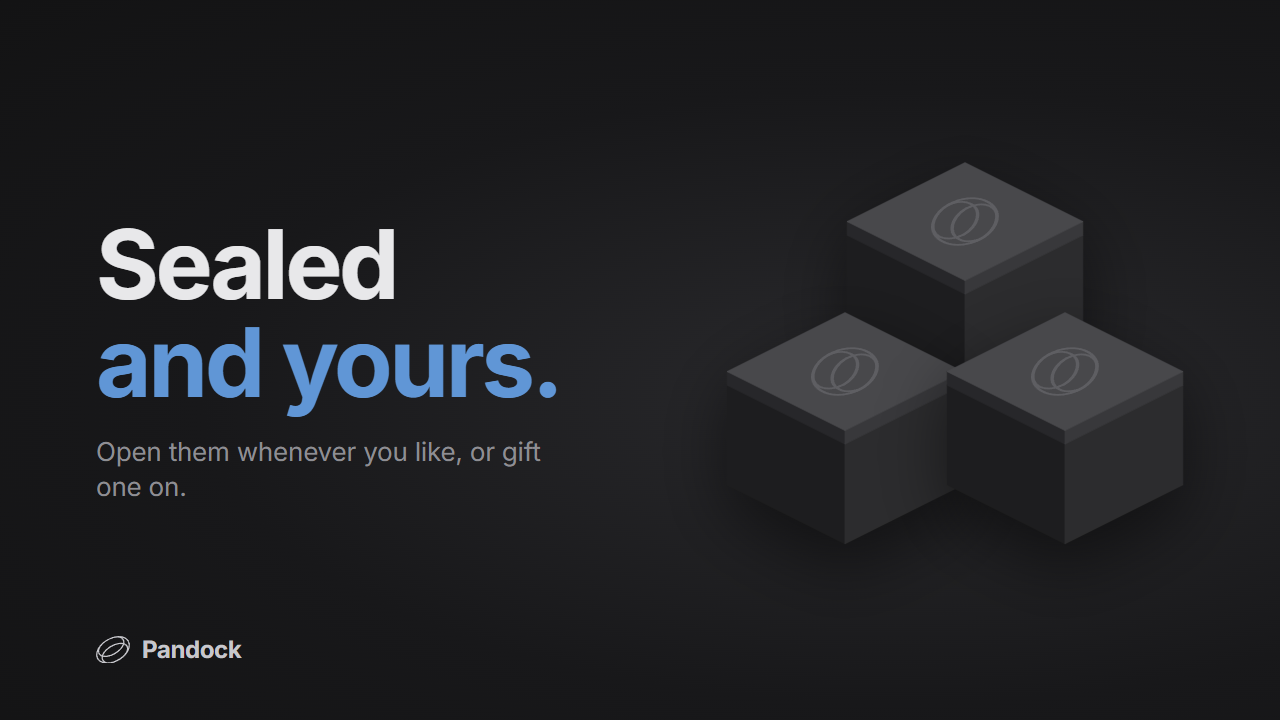
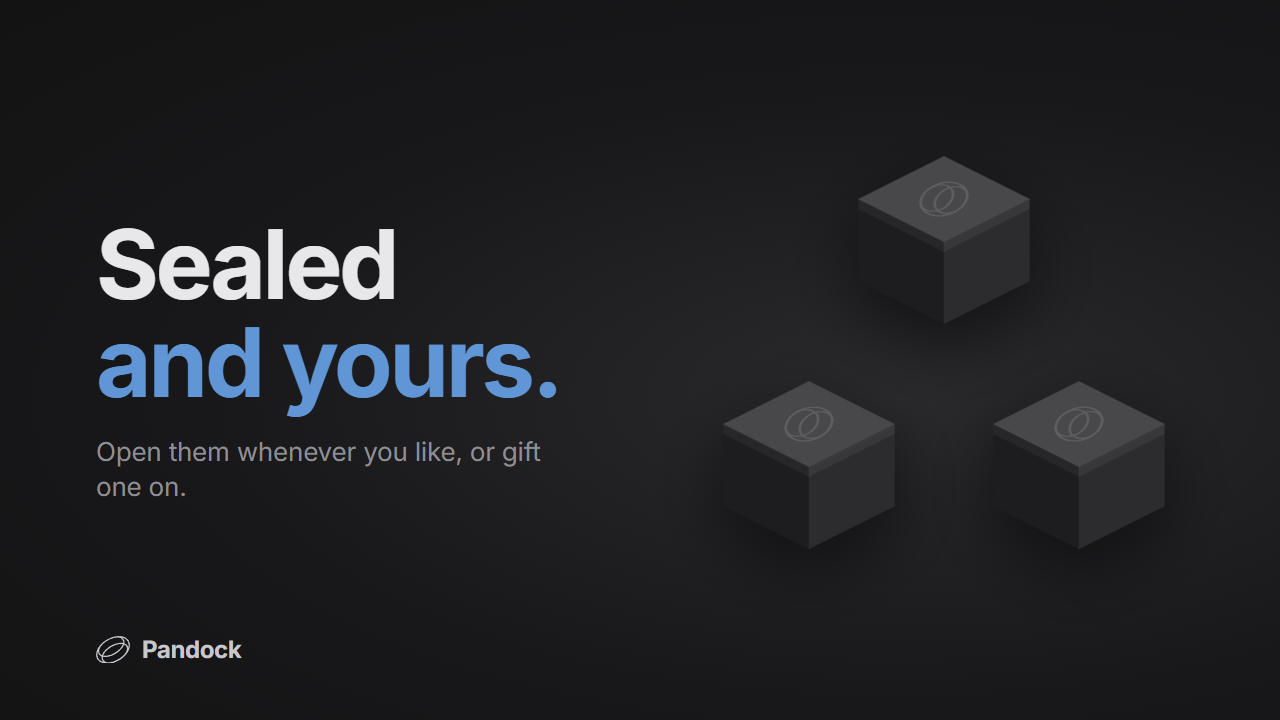
fix(brand): give the boxes on the purchase card room

Changed region(s): [[0.5625, 0.4278, 0.9375, 0.6722], [0.6562, 0.2444, 0.8438, 0.3972], [0.7188, 0.2139, 0.7812, 0.2444]]

diff --git a/brand/source/tg.html b/brand/source/tg.html
@@ -30,12 +30,13 @@
     const CARDS = {
       linked: { title: 'Linked.<span>Ready to gift.</span>', lead: 'Send boxes from any chat with /gift.', boxes: [[0, 30, 420]] },
       gift: { title: 'A box<span>for you.</span>', lead: 'Sealed. Open it to see which stock is inside.', boxes: [[0, 30, 420]] },
-      bought: { title: 'Sealed<span>and yours.</span>', lead: 'Open them whenever you like, or gift one on.', boxes: [[70, 0, 290], [-50, 150, 290], [170, 150, 290]] }, // back one first, so the front two overlap it
+      bought: { title: 'Sealed<span>and yours.</span>', lead: 'Open them whenever you like, or gift one on.', boxes: [[135, 0, 210], [0, 225, 210], [270, 225, 210]], wide: true }, // a small pyramid with air between the boxes
     }
     const c = CARDS[new URLSearchParams(location.search).get('kind')] ?? CARDS.linked
     document.getElementById('title').innerHTML = c.title
     document.getElementById('lead').textContent = c.lead
     document.getElementById('brand').innerHTML = markSVG('#c7c7cc') + 'Pandock'
+    if (c.wide) Object.assign(document.getElementById('stage').style, { width: '480px', right: '96px' })
     document.getElementById('stage').innerHTML = c.boxes
       .map(([x, y, w]) => `<div class="box" style="left:${x}px;top:${y}px;width:${w}px">${boxSVG()}</div>`)
       .join('')
